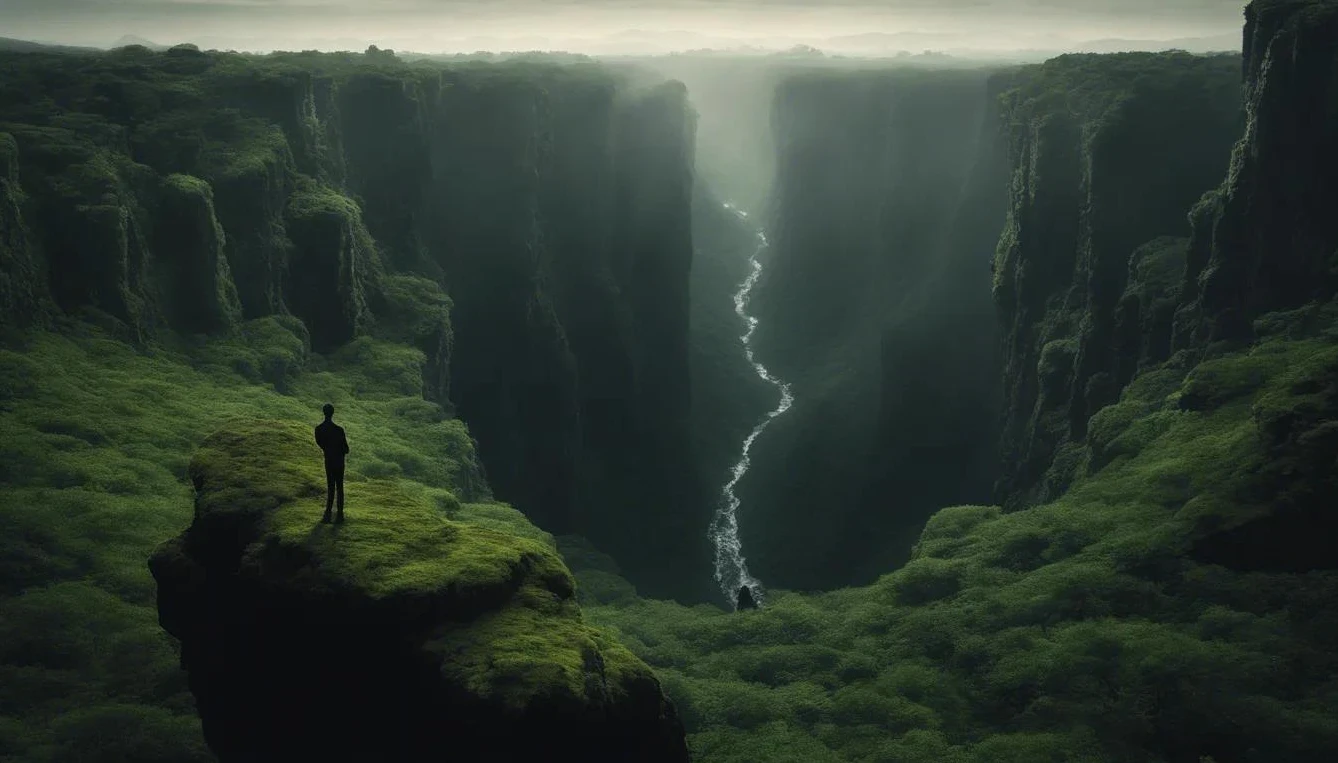
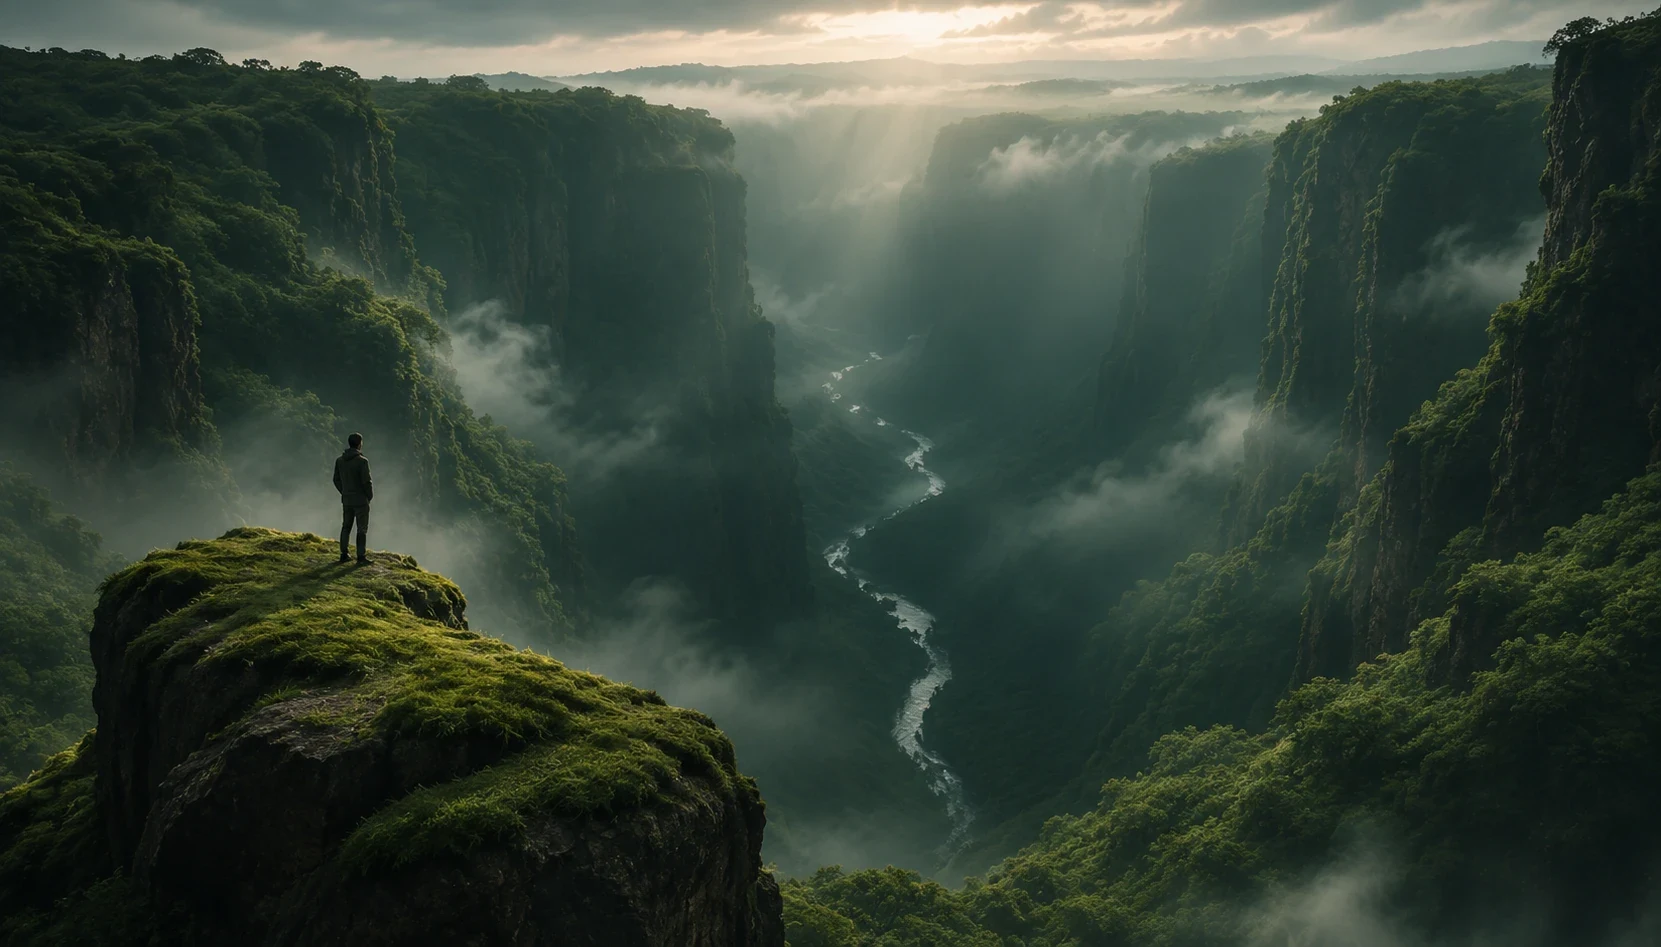
Abismo: foto nova, vento mais visível no mato e foco no recorte
- Troca a foto do abismo (1661x947, com mais névoa e luz)
- Vento sensível também ao mato escuro, com amplitude um pouco maior
- O recorte centraliza no ponto de foco: no celular a pessoa à beira do abismo aparece

diff --git a/src/components/ui/abismo-vento.tsx b/src/components/ui/abismo-vento.tsx
@@ -37,25 +37,27 @@ void main() {
   float zoom = 1.0 + 0.035 * (0.5 - 0.5 * cos(u_time * 0.045));
   scale /= zoom;
   vec2 uv = vec2(v_uv.x, 1.0 - v_uv.y);
-  uv = (uv - 0.5) * scale + mix(vec2(0.5), u_focus, 1.0 - scale);
+  // centraliza o recorte no ponto de foco, sem sair da foto
+  vec2 centro = clamp(u_focus, scale * 0.5, 1.0 - scale * 0.5);
+  uv = (uv - 0.5) * scale + centro;
 
   vec3 base = texture2D(u_img, uv).rgb;
   float lum = dot(base, vec3(0.299, 0.587, 0.114));
   // máscara do mato: verde dominante e claro o bastante
-  float green = smoothstep(0.015, 0.09, base.g - max(base.r, base.b));
-  float mato = green * smoothstep(0.10, 0.32, lum);
+  float green = smoothstep(0.008, 0.06, base.g - max(base.r, base.b));
+  float mato = green * smoothstep(0.05, 0.22, lum);
 
   // vento: rajadas que atravessam da esquerda para a direita
   float t = u_time;
   float rajada = 0.55 + 0.45 * sin(t * 0.35 + uv.x * 2.5);
   float n = fbm(uv * vec2(9.0, 14.0) + vec2(t * 0.55, t * 0.12));
   vec2 off = vec2(
-    (sin(uv.y * 90.0 + t * 2.2 + n * 6.0) * 0.0011 + (n - 0.5) * 0.0026) * rajada,
-    (n - 0.5) * 0.0009
+    (sin(uv.y * 90.0 + t * 2.2 + n * 6.0) * 0.0016 + (n - 0.5) * 0.0038) * rajada,
+    (n - 0.5) * 0.0013
   ) * mato;
   vec3 col = texture2D(u_img, uv + off).rgb;
   // o mato clareia um pouco quando a rajada passa (as folhas viram para a luz)
-  col *= 1.0 + mato * (n - 0.45) * 0.10 * rajada;
+  col *= 1.0 + mato * (n - 0.45) * 0.14 * rajada;
 
   // rio: brilho correndo
   float rio = smoothstep(0.62, 0.85, lum) * (1.0 - green);

diff --git a/src/components/site/v2/HeroAbismo.tsx b/src/components/site/v2/HeroAbismo.tsx
@@ -22,7 +22,7 @@ export function HeroAbismo({ cpfHref, cnpjHref }: { cpfHref: string; cnpjHref: s
 
       {/* o abismo, com vento no mato */}
       {/* foco na pessoa à beira do abismo: no celular (recorte vertical) ela continua na tela */}
-      <AbismoVento src="/img/abismo.webp" focus={[0.33, 0.5]} className="absolute inset-0 -z-20" />
+      <AbismoVento src="/img/abismo.webp" focus={[0.28, 0.5]} className="absolute inset-0 -z-20" />
       {/* véus para leitura: esquerda e base mais escuras, como na referência */}
       <div className="absolute inset-0 -z-10 bg-[linear-gradient(90deg,rgba(14,24,16,.72)_0%,rgba(14,24,16,.35)_42%,rgba(14,24,16,0)_70%)]" />
       <div className="absolute inset-0 -z-10 bg-[linear-gradient(180deg,rgba(14,24,16,.35)_0%,rgba(14,24,16,0)_28%,rgba(14,24,16,0)_55%,rgba(14,24,16,.8)_100%)]" />
